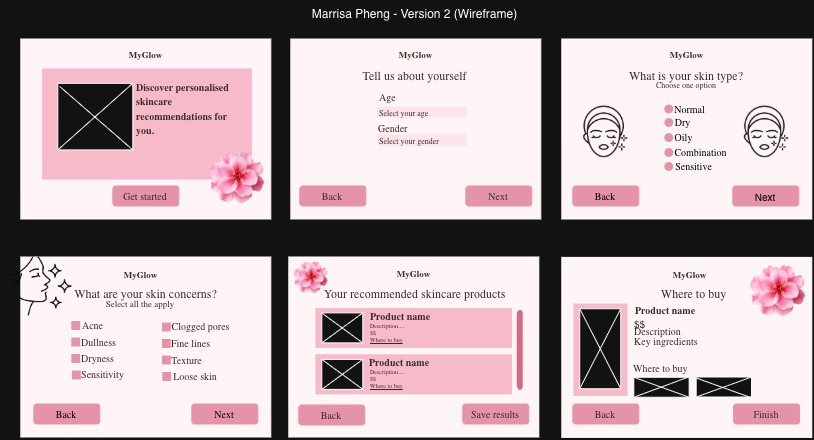
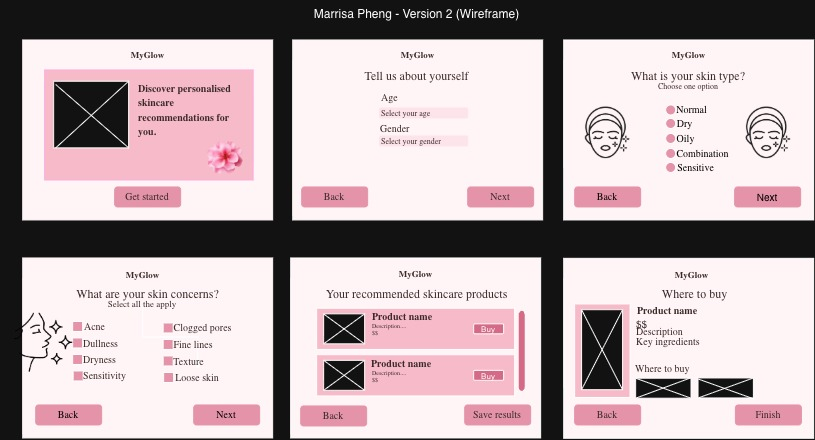
Enhance input fields and validation in the user information section

diff --git a/SkincareProgram_91906.py b/SkincareProgram_91906.py
@@ -212,17 +212,17 @@ def show_about_you():
     heading.pack(pady=10)
 
     # Enter name input
-    name_label = tk.Label(main_frame, text="Name:", bg="#FFF4F6", fg="#3B2929", font=("Times", 14))
+    name_label = tk.Label(main_frame, text="Name:", bg="#FFF4F6", fg="#3B2929", font=("Times", 20))
     name_label.pack(pady=5)
 
-    name_entry = tk.Entry(main_frame, bg="#FCE4EA", fg="#3B2929", font=("Arial", 12), highlightbackground="white", highlightcolor="white", highlightthickness=2) # Added white widget border
+    name_entry = tk.Entry(main_frame, bg="#FCE4EA", fg="#3B2929", font=("Arial", 17), highlightbackground="white", highlightcolor="white", highlightthickness=2) # Added white widget border
     name_entry.pack(pady=5)
 
     # Enter age input
-    age_label = tk.Label(main_frame, text="Age:", bg="#FFF4F6", fg="#3B2929", font=("Times", 14))
+    age_label = tk.Label(main_frame, text="Age:", bg="#FFF4F6", fg="#3B2929", font=("Times", 20))
     age_label.pack(pady=5)
 
-    age_entry = tk.Entry(main_frame, bg="#FCE4EA", fg="#3B2929", font=("Times", 12), highlightbackground="white", highlightcolor="white", highlightthickness=2) # Added white widget border
+    age_entry = tk.Entry(main_frame, bg="#FCE4EA", fg="#3B2929", font=("Times", 17), highlightbackground="white", highlightcolor="white", highlightthickness=2) # Added white widget border
     age_entry.pack(pady=5)
 
     make_navigation(show_home, "Next", check_about_you)
@@ -233,12 +233,22 @@ def check_about_you():
     age = age_entry.get()
 
     # Check that a name has been entered
-    if name == "":
+    if name.strip() == "":
         messagebox.showerror("Error", "Please enter your name.")
         return
     # Check that an age has been entered
     if age == "":
         messagebox.showerror("Error", "Please enter your age.")
+        return
+    
+    # Check that age is a valid number
+    if age.isdigit() == False:
+        messagebox.showerror("Error", "Please enter a valid age")
+        return
+    
+    # Check that age is within a reasonable range
+    if int(age) < 10 or int(age) > 100:
+        messagebox.showerror("Error", "Please enter an age between 10 and 100")
         return
     
     user_name = name
